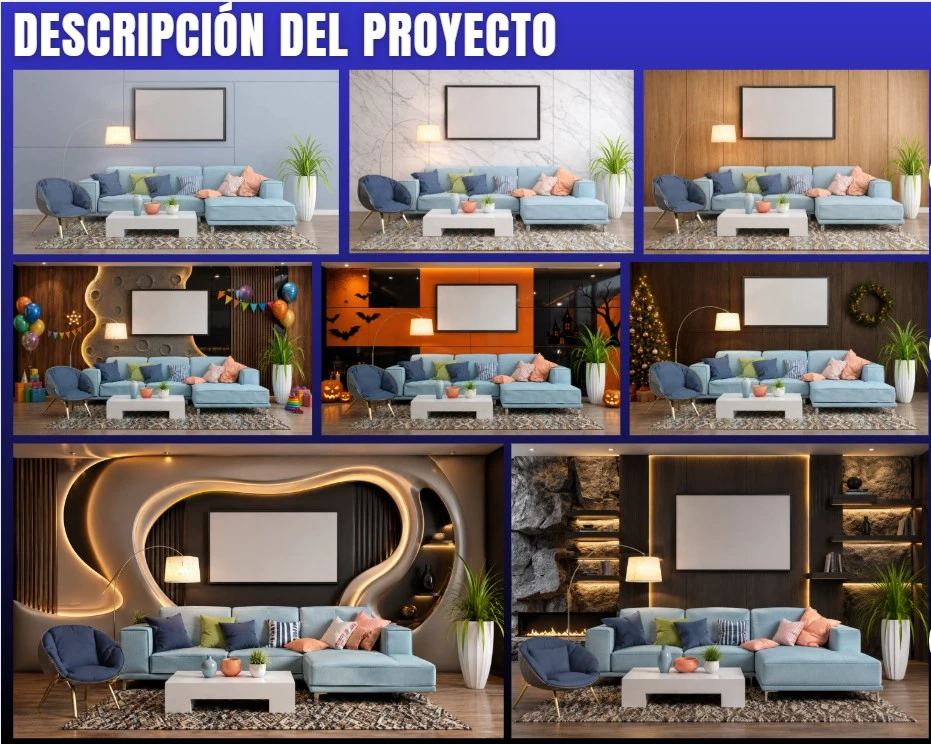
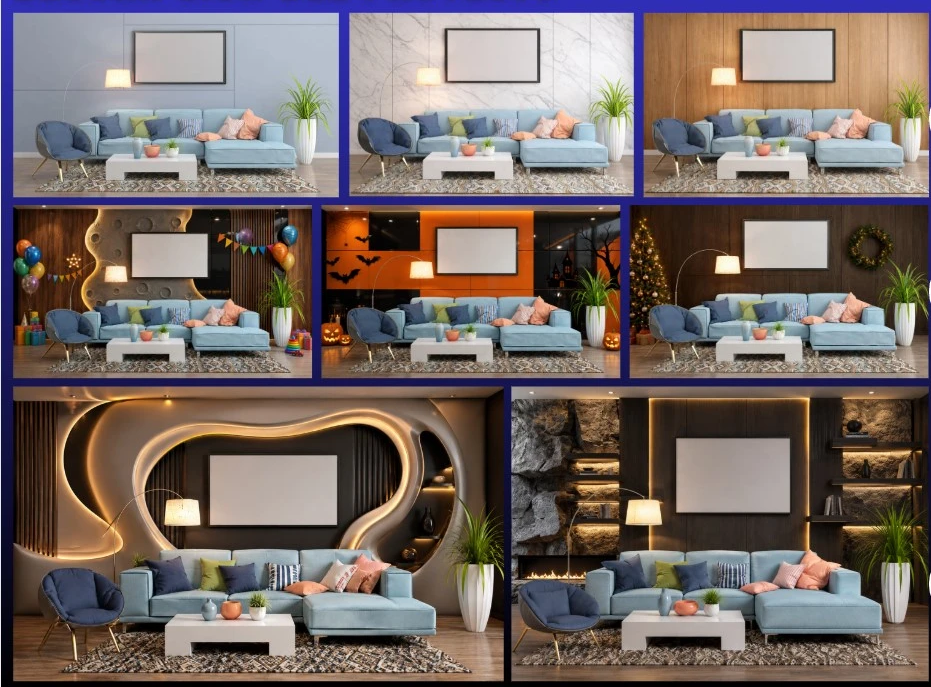
casi terminadas las monificaciones

diff --git a/resources/js/Components/Landing/HeroSection.vue b/resources/js/Components/Landing/HeroSection.vue
@@ -75,17 +75,12 @@ export default {
             <div class="absolute inset-0 bg-[radial-gradient(#e2e8f0_1px,transparent_1px)] [background-size:40px_40px] opacity-20"></div>
         </div>
 
-        <div class="container mx-auto px-6 relative z-10 grid lg:grid-cols-2 gap-12 items-center h-full">
+        <div class="container mx-auto px-4 relative z-10 grid lg:grid-cols-5 gap-7 items-center h-full">
             
             <!-- Texto con transiciones suaves controladas por isLoaded -->
-            <div class="space-y-10 text-center lg:text-left order-2 lg:order-1 transition-all duration-1000 transform"
+            <div class="space-y-10 text-center lg:text-left order-2 lg:order-1 lg:col-span-2 transition-all duration-1000 transform"
                  :class="[isLoaded ? 'opacity-100 translate-y-0' : 'opacity-0 translate-y-10']">
-                
-                <div class="inline-flex items-center gap-3 pl-1 pr-4 py-1.5 rounded-full bg-white border border-slate-100 shadow-sm">
-                    <span class="flex h-7 w-7 items-center justify-center rounded-full bg-slate-900 text-white text-[10px] font-black tracking-tighter">PRO</span>
-                    <span class="text-slate-500 text-[11px] font-bold tracking-[0.2em] uppercase">Vanguardia en Digitalización 3D</span>
-                </div>
-                
+                                
                 <h1 class="text-6xl lg:text-8xl font-extrabold leading-[0.9] text-slate-900 tracking-tighter">
                     Diseña el espacio <br/>
                     <span class="text-transparent bg-clip-text bg-gradient-to-r from-blue-600 to-cyan-500">
@@ -106,32 +101,17 @@ export default {
                         Explorar Galería
                     </n-button>
                 </div>
-
-                <div class="flex items-center justify-center lg:justify-start gap-10 pt-8 border-t border-slate-100 max-w-sm">
-                     <div class="group">
-                        <div class="text-[10px] font-bold text-slate-300 mb-1 group-hover:text-blue-500 transition-colors">LATENCIA</div>
-                        <div class="text-sm font-mono font-medium text-slate-500">0.02ms</div>
-                     </div>
-                     <div class="group">
-                        <div class="text-[10px] font-bold text-slate-300 mb-1 group-hover:text-blue-500 transition-colors">TOLERANCIA</div>
-                        <div class="text-sm font-mono font-medium text-slate-500">±0.01mm</div>
-                     </div>
-                     <div class="group">
-                        <div class="text-[10px] font-bold text-slate-300 mb-1 group-hover:text-blue-500 transition-colors">ESTADO</div>
-                        <div class="text-sm font-mono font-medium text-green-500">ONLINE</div>
-                     </div>
-                </div>
             </div>
 
             <!-- Contenedor del Carousel -->
-            <div class="relative flex items-center justify-center order-1 lg:order-2 h-[550px] lg:h-[700px]">
+            <div class="relative flex items-center justify-center order-1 lg:order-2 lg:col-span-3 h-[550px] lg:h-[700px]">
                 
                 <!-- Tarjeta Principal -->
-                <div class="relative w-full max-w-2xl h-full rounded-[3rem] overflow-hidden border border-white bg-white/40 shadow-[0_32px_64px_-16px_rgba(0,0,0,0.06)] group transition-all duration-700 cursor-pointer"
+                <div class="relative w-full max-w-7xl h-full rounded-[3rem] overflow-hidden border border-white bg-white/40 shadow-[0_32px_64px_-16px_rgba(0,0,0,0.06)] group transition-all duration-700 cursor-pointer"
                      :class="[isLoaded ? 'opacity-100 scale-100' : 'opacity-0 scale-95']">
                     
                     <!-- HUD Elements -->
-                    <!-- <div class="absolute inset-0 z-30 pointer-events-none p-10 flex flex-col justify-between">
+                    <div class="absolute inset-0 z-30 pointer-events-none p-10 flex flex-col justify-between">
                         <div class="flex justify-between items-start opacity-40 group-hover:opacity-100 transition-opacity duration-500">
                             <div class="space-y-1">
                                 <div class="w-8 h-[1px] bg-slate-400"></div>
@@ -157,10 +137,10 @@ export default {
                                 </svg>
                             </div>
                         </div>
-                    </div> -->
+                    </div>
 
                     <!-- Efecto de barrido de luz -->
-                    <div class="absolute inset-0 bg-gradient-to-t from-blue-300/20 via-transparent to-transparent z-20 pointer-events-none translate-y-full animate-scanner-elegant"></div>
+                    <div class="absolute inset-0 bg-gradient-to-r from-blue-300/20 via-transparent to-transparent z-20 pointer-events-none translate-x-full animate-scanner-elegant"></div>
                     
                     <!-- Brillo de cristal -->
                     <div class="absolute top-[-20%] left-[-20%] w-[140%] h-[140%] bg-gradient-to-br from-white/20 via-transparent to-transparent pointer-events-none z-20"></div>
@@ -179,7 +159,13 @@ export default {
                 <!-- Adornos Geométricos -->
                 <div class="absolute -z-10 -bottom-10 -right-10 w-64 h-64 bg-slate-50 rounded-full mix-blend-multiply opacity-50"></div>
                 <div class="absolute -z-10 -top-5 -left-5 w-32 h-32 border border-slate-100 rounded-full animate-spin-very-slow"></div>
+
+                <div class="absolute -bottom-14 right-8 inline-flex items-center gap-3 pl-1 pr-4 py-1.5 rounded-full bg-white border border-slate-100 shadow-sm">
+                    <span class="flex h-7 w-7 items-center justify-center rounded-full bg-slate-900 text-white text-[10px] font-black tracking-tighter">PRO</span>
+                    <span class="text-slate-500 text-[11px] font-bold tracking-[0.2em] uppercase">Vanguardia en Digitalización 3D</span>
+                </div>
             </div>
+            
         </div>
     </section>
 </template>
@@ -187,10 +173,10 @@ export default {
 <style scoped>
 /* Animación del escáner elegante */
 @keyframes scanner-elegant {
-    0% { transform: translateY(100%); opacity: 0; }
+    0% { transform: translateX(100%); opacity: 0; }
     20% { opacity: 0.4; }
     80% { opacity: 0.4; }
-    100% { transform: translateY(-100%); opacity: 0; }
+    100% { transform: translateX(-100%); opacity: 0; }
 }
 .animate-scanner-elegant {
     animation: scanner-elegant 6s cubic-bezier(0.4, 0, 0.2, 1) infinite;

diff --git a/resources/js/Layouts/AppLayoutLanding.vue b/resources/js/Layouts/AppLayoutLanding.vue
@@ -112,7 +112,7 @@ export default {
                             'transition-all duration-500 ease-[cubic-bezier(0.25,0.8,0.25,1)] flex items-center',
                             isScrolled 
                                 ? 'w-[95%] md:w-auto bg-white/60 backdrop-blur-md border border-slate-200 shadow-2xl shadow-[#2f4b59]/10 rounded-full px-4 py-2 gap-2 justify-between md:justify-start' 
-                                : 'w-full max-w-7xl px-6 bg-transparent border-transparent gap-8 justify-between md:justify-start'
+                                : 'container mx-auto px-6 bg-transparent border-transparent gap-8 justify-between md:justify-start'
                         ]"
                     >
                         <!-- 1. LOGO -->
@@ -182,7 +182,7 @@ export default {
                                 <template #icon>
                                     <svg class="w-4 h-4" fill="none" stroke="currentColor" viewBox="0 0 24 24"><path stroke-linecap="round" stroke-linejoin="round" stroke-width="2" d="M8 7V3m8 4V3m-9 8h10M5 21h14a2 2 0 002-2V7a2 2 0 00-2-2H5a2 2 0 00-2 2v12a2 2 0 002 2z" /></svg>
                                 </template>
-                                <span v-if="!isScrolled">Agendar Cita</span>
+                                <span v-if="!isScrolled">Vive la Experiencia NODO</span>
                                 <span v-else>Agendar</span>
                             </n-button>
                         </div>
@@ -311,8 +311,9 @@ export default {
                                         <!-- <span class="text-[#4cc9f0]">3D</span> -->
                                     </span>
                                 </div>
-                                <p class="text-slate-400 text-sm leading-relaxed max-w-sm">
-                                    Fusionamos tecnología de vanguardia para la digitalización humana, de la naturaleza y del arte para crear replicas físicas eternas
+                                <p class="text-slate-200 text-base leading-relaxed max-w-sm">
+                                    Diseñamos sistemas que permiten a los espacios transformarse sin perder su escencia. <br/>
+                                    Creemos que un espacio no debe limitarse a una sola función, sino adaptarse a quienes lo viven.
                                 </p>
                                 <div class="flex gap-4 pt-2">
                                     <!-- Social Icons Placeholders -->
@@ -369,7 +370,7 @@ export default {
                                     </li>
                                 </ul>
                                 <figure class="mt-4 cursor-pointer">
-                                    <a class="flex justify-end items-center" href="https://app.dtw.com.mx/" target="_blank">
+                                    <a class="flex justify-end items-center" href="https://dtw.com.mx/" target="_blank">
                                         <p class="text-white text-xl">BY</p>
                                         <img class="w-20 lg:w-[30%]" src="@/../../public/images/DTW_logo_blanco.png" alt="">
                                     </a>
@@ -394,7 +395,7 @@ export default {
                                     </li>
                                 </ul>
                             <figure class="mt-4 cursor-pointer">
-                                <a class="flex justify-end items-center" href="https://app.dtw.com.mx/" target="_blank">
+                                <a class="flex justify-end items-center" href="https://dtw.com.mx/" target="_blank">
                                     <p class="text-white text-xl">BY</p>
                                     <img class="w-20 lg:w-[30%]" src="@/../../public/images/DTW_logo_blanco.png" alt="">
                                 </a>

diff --git a/resources/js/Components/MyComponents/AppointmentModal.vue b/resources/js/Components/MyComponents/AppointmentModal.vue
@@ -34,6 +34,7 @@ export default {
         const form = useForm({
             guest_name: '',
             guest_phone: '',
+            guest_count: 1,
             date: null,     
             start_time: null, 
             service_type: null 
@@ -204,6 +205,7 @@ export default {
             this.form.transform((data) => ({
                 guest_name: data.guest_name,
                 guest_phone: data.guest_phone,
+                guest_count: data.guest_count,
                 start_time: localDateString, 
                 internal_notes: `Servicio: ${data.service_type}`
             })).post(route('appointments.store'), {
@@ -258,16 +260,25 @@ export default {
             
             <div class="mt-2">
                 <p class="text-slate-600 mb-6 text-sm">
-                    Selecciona una fecha para ver la disponibilidad real.
+                    Selecciona una fecha para ver la disponibilidad.
                 </p>
 
                 <n-form ref="formRef" :model="form" label-placement="top" size="large">
-                    <div class="grid grid-cols-1 md:grid-cols-2 gap-4">
-                        <n-form-item label="Nombre Completo" path="guest_name" show-require-mark>
+                    <div class="grid grid-cols-1 md:grid-cols-3 gap-4">
+                        <n-form-item label="Nombre" path="guest_name" show-require-mark>
                             <n-input v-model:value="form.guest_name" placeholder="Ej. Juan Pérez" />
                         </n-form-item>
                         <n-form-item label="Teléfono / WhatsApp" path="guest_phone" show-require-mark>
                             <n-input v-model:value="form.guest_phone" placeholder="Ej. 55 1234 5678" />
+                        </n-form-item>
+                        <n-form-item label="Personas que asistirán" path="guest_count" show-require-mark>
+                            <n-input
+                                v-model:value="form.guest_count"
+                                type="number"
+                                :min="1"
+                                :max="20"
+                                placeholder="Ej. 2"
+                            />
                         </n-form-item>
                     </div>
 

diff --git a/resources/js/Components/Landing/ProcessSection.vue b/resources/js/Components/Landing/ProcessSection.vue
@@ -11,7 +11,7 @@ const activeStep = ref(0);
 const steps = [
   { 
     id: 1, 
-    title: 'Transforma tu espacio', 
+    title: 'DESCUBRE TU ESPACIO', 
     duration: 'Online', 
     shortDesc: 'Quiero transformar mi espacio',
     description: 'Selecciona el paquete ideal para ti y elige el horario que mejor te convenga en nuestro calendario en línea. Recibirás una confirmación inmediata.',
@@ -20,7 +20,7 @@ const steps = [
   },
   { 
     id: 2, 
-    title: 'Diseño y cotización', 
+    title: 'Diseña TU ESPACIO', 
     duration: '', 
     shortDesc: 'Asiste a nuestro estudio.',
     description: 'Ven a nuestra cabina fotogramétrica. Recomendamos usar ropa con texturas, patrones o colores mate. Evita el color negro absoluto, materiales brillantes o transparencias para una captura perfecta.',
@@ -29,7 +29,7 @@ const steps = [
   },
   { 
     id: 3, 
-    title: 'Agenda instalación', 
+    title: 'Hazlo realidad', 
     duration: '', 
     shortDesc: 'Hazlo único.',
     description: 'Aquí ocurre la magia digital. Puedes personalizar tu gemelo digital cambiando tu vestimenta, agregando accesorios únicos o integrando el modelo en escenas temáticas antes de la impresión.',
@@ -70,11 +70,11 @@ const setActive = (index) => {
       
       <!-- Cabecera -->
       <div class="text-center mb-16">
-        <h2 class="text-sm font-bold tracking-[0.2em] text-[#4cc9f0] uppercase mb-3">Tu camino al 3D</h2>
+        <h2 class="text-sm font-bold tracking-[0.2em] text-[#4cc9f0] uppercase mb-3">EL CAMINO HACIA TU NUEVO ESPACIO</h2>
         <h3 class="text-3xl md:text-5xl font-bold bg-clip-text text-transparent bg-gradient-to-r from-white to-slate-400">
-          Proceso de Creación
+          LA NUEVA FORMA DE TRANSFORMAR LOS ESPACIOS
         </h3>
-        <p class="text-slate-400 mt-4 max-w-lg mx-auto">Cuatro pasos simples para inmortalizar tu momento.</p>
+        <p class="text-slate-400 mt-4 max-w-lg mx-auto">Conoce cada etapa para convertir tu espacion en una experiencia única</p>
       </div>
 
       <!-- Sistema de Pasos (Stepper) -->

diff --git a/resources/js/Components/AuthenticationCardLogo.vue b/resources/js/Components/AuthenticationCardLogo.vue
@@ -4,15 +4,15 @@ import { Link } from '@inertiajs/vue3';
 
 <template>
     <Link :href="'/inicio'" class="flex space-x-2 w-full items-center group relative shrink-0 transition-all duration-500" >
-        <div class="relative size-16 p-1 bg-[#2f4b59] rounded-full flex items-center justify-center text-white overflow-hidden shadow-lg group-hover:scale-110 transition-transform duration-300">
+        <div class="relative size-16 p-1 bg-white rounded-full flex items-center justify-center text-white overflow-hidden shadow-lg group-hover:scale-110 transition-transform duration-300">
             <!-- Icono -->
-            <img src="@/../../public/images/orion-logo-blanco.png" alt="">
+            <img src="@/../../public/images/orion-logo-cromo.png" alt="">
             <!-- Brillo interno animado -->
             <div class="absolute inset-0 bg-gradient-to-tr from-transparent via-white/20 to-transparent opacity-0 group-hover:opacity-100 transition-opacity duration-300"></div>
         </div>
         <div class="flex flex-col leading-none transition-all duration-300">
             <span class="text-2xl font-bold tracking-tight text-[#2f4b59]">
-                ORION
+                NODO
                 <!-- <span class="text-slate-400">3D</span> -->
             </span>
         </div>

diff --git a/resources/js/Components/AuthenticationCard.vue b/resources/js/Components/AuthenticationCard.vue
@@ -58,10 +58,10 @@
                 <!-- Contenido sobre la imagen -->
                 <div class="relative z-10 text-center lg:text-left max-w-lg">
                     <h2 class="text-3xl lg:text-5xl font-bold mb-6 tracking-tight leading-tight">
-                        La nueva dimensión del <span class="text-transparent bg-clip-text bg-gradient-to-r from-cyan-400 to-teal-300">Escaneo 3D</span>
+                        La nueva forma de <span class="text-transparent bg-clip-text bg-gradient-to-r from-cyan-400 to-teal-300">transformar espacios</span>
                     </h2>
                     <p class="text-lg text-gray-300 mb-8 font-light leading-relaxed">
-                        Precisión milimétrica, texturas realistas y tecnología de vanguardia para digitalizar el mundo físico.
+                        Creamos espacios que permiten adaptar, transformar y renovar un espacio conforme cambian las necesidades de los usuarios.
                     </p>
                     
                     <!-- Elemento decorativo flotante 3D simulado -->

diff --git a/resources/js/Components/Landing/StatsSection.vue b/resources/js/Components/Landing/StatsSection.vue
@@ -30,8 +30,8 @@ const stats = ref([
   { 
     id: 4, 
     label: 'Sistema físico + plataforma digital', 
-    displayValue: 1, 
-    suffix: ' Ecosistema', 
+    displayValue: null, 
+    suffix: ' Ecosistema NODO + Modula', 
     prefix: '',
     iconPath: 'M12 2l3.09 6.26L22 9.27l-5 4.87 1.18 6.88L12 17.77l-6.18 3.25L7 14.14 2 9.27l6.91-1.01L12 2z' // Estrella
   },
@@ -71,8 +71,8 @@ const stats = ref([
             </div>
 
             <!-- Número animado -->
-            <div class="flex items-baseline gap-1 mb-2">
-              <span class="text-4xl md:text-5xl font-black text-white tracking-tighter tabular-nums drop-shadow-lg">
+            <div class="flex flex-col items-baseline gap-1 mb-2">
+              <span class="text-4xl md:text-5xl font-black text-white tracking-tighter tabular-nums drop-shadow-lg mx-auto">
                 {{ stat.prefix }}{{ stat.displayValue }}
               </span>
               <span class="text-xl md:text-2xl font-bold text-[#4cc9f0]">{{ stat.suffix }}</span>

diff --git a/database/migrations/2026_01_20_180906_create_appointments_table.php b/database/migrations/2026_01_20_180906_create_appointments_table.php
@@ -30,6 +30,8 @@ return new class extends Migration
             $table->foreignId('service_package_id')->nullable()->constrained()->nullOnDelete();
             
             $table->text('internal_notes')->nullable();
+            
+            $table->integer('guest_count')->default(1);
 
             // Índice compuesto para buscar citas en rangos de fechas rápidamente
             $table->index(['start_time', 'end_time', 'status']);

diff --git a/app/Models/Appointment.php b/app/Models/Appointment.php
@@ -18,11 +18,13 @@ class Appointment extends Model
         'status',
         'service_package_id',
         'internal_notes',
+        'guest_count',
     ];
 
     protected $casts = [
         'start_time' => 'datetime',
         'end_time' => 'datetime',
+        'guest_count' => 'integer',
     ];
 
     // Relación: Puede pertenecer a un cliente (o ser null)
